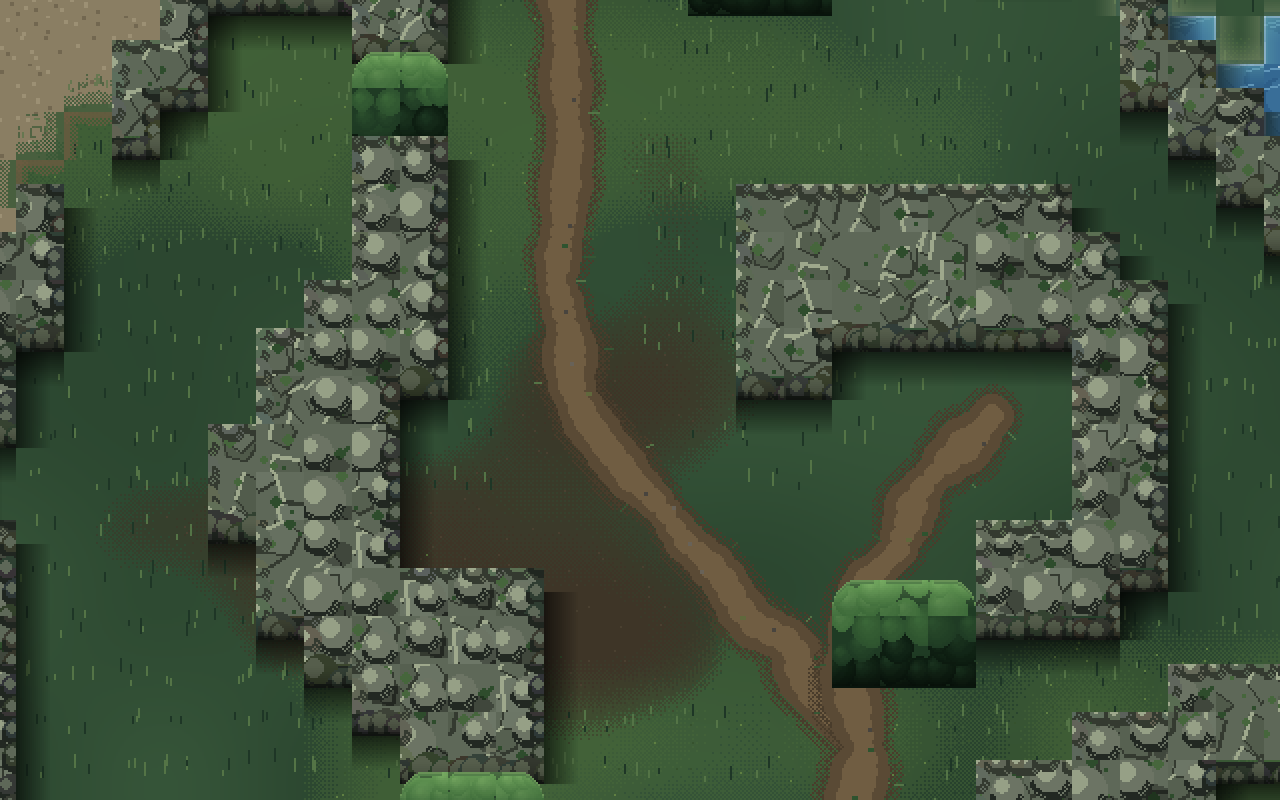
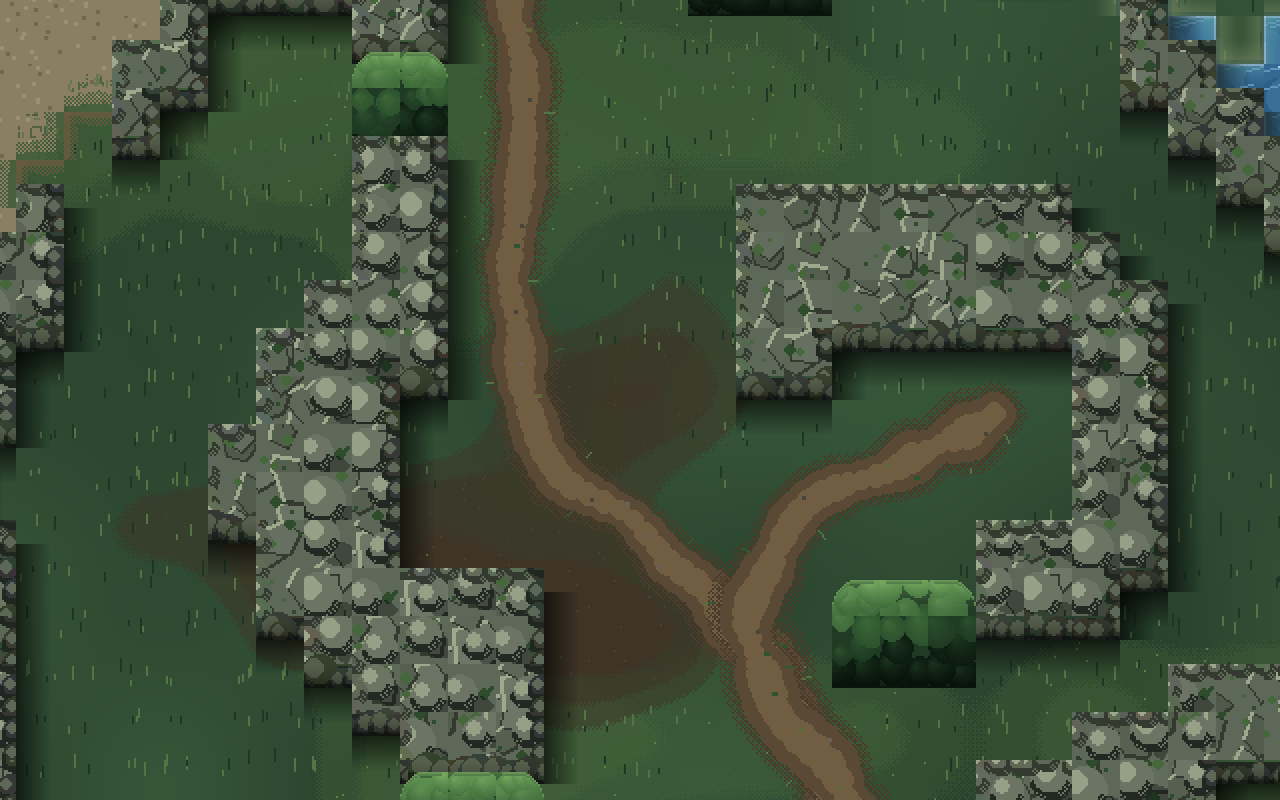
Sentieri aggirano i cespugli; retino del muschio meno visibile
Due correzioni di rifinitura:

2) I cespugli diventano OSTACOLI nel routing dei sentieri (Dijkstra): il
   sentiero li aggira invece di passarci sotto, e la penalita' di prossimita'
   ora vale anche per i cespugli (ci corre accanto). Tutti i 12 campi restano
   collegati a una lane (12/12 rotte).

3) Dithering delle chiazze di muschio meno aggressivo: il dithering ora sta in
   una fascia stretta vicino al confine tra i livelli (dlevel; gli interni
   restano a tinta piena) e i gradini del muschio hanno meno contrasto -> via il
   retino a scacchiera, resta una transizione sottile.

Screenshot aggiornati step_3/step_4, CLAUDE.md aggiornato. Test 38/38 OK.

Changed region(s): [[0.375, 0.0, 0.7812, 1.0]]

diff --git a/game/map_renderer.py b/game/map_renderer.py
@@ -318,8 +318,9 @@ class MapRenderer:
         GLO = np.array(GRASS_LO, np.float32); GHI = np.array(GRASS_HI, np.float32)
         MOSS = np.array(JUNGLE_MOSS, np.float32); MUD = np.array(JUNGLE_MUD, np.float32)
         # Forza del livello di chiazza (0=niente .. pieno): pochi gradini netti.
+        # Il muschio ha gradini PICCOLI (poco contrasto -> dithering discreto).
         MUD_STR = np.array([0.0, 0.5, 0.78, 1.0], np.float32)   # 3 livelli + 0
-        MOSS_STR = np.array([0.0, 0.42, 0.64], np.float32)      # 2 livelli + 0
+        MOSS_STR = np.array([0.0, 0.28, 0.48], np.float32)      # 2 livelli + 0
 
         # Le chiazze sono a BASSA frequenza: calcolo i campi di rumore (tinta,
         # muschio, fango) a risoluzione ridotta UNA volta, poi li interpolo
@@ -350,15 +351,26 @@ class MapRenderer:
             y0i = np.floor(fy).astype(np.int64); y1i = np.minimum(y0i + 1, hl - 1)
             wy = (fy - y0i)[:, None]
             bay = _BAYER[(np.arange(y0, y1)[:, None]) % 4, colx[None, :]]
+
+            def dlevel(valN, nmax):
+                # Livello quantizzato con DITHERING solo in una FASCIA STRETTA
+                # vicino al confine tra due livelli: così gran parte della chiazza
+                # è a tinta piena e il retino a scacchiera resta sottile.
+                lo = np.floor(valN)
+                t = valN - lo
+                tt = np.clip((t - 0.38) / 0.24, 0.0, 1.0)      # 0 pieno-basso .. 1 pieno-alto
+                lvl = lo + (bay < tt)
+                return np.clip(lvl, 0, nmax).astype(np.int64)
+
             tone = tone_x[y0i] * (1 - wy) + tone_x[y1i] * wy
             r = GLO[0] + (GHI[0] - GLO[0]) * tone
             g = GLO[1] + (GHI[1] - GLO[1]) * tone
             b = GLO[2] + (GHI[2] - GLO[2]) * tone
             moss = moss_x[y0i] * (1 - wy) + moss_x[y1i] * wy
-            ms = MOSS_STR[np.clip(np.floor(moss * 2.0 + bay), 0, 2).astype(np.int64)]
+            ms = MOSS_STR[dlevel(moss * 2.0, 2)]
             r += (MOSS[0] - r) * ms; g += (MOSS[1] - g) * ms; b += (MOSS[2] - b) * ms
             mud = mud_x[y0i] * (1 - wy) + mud_x[y1i] * wy
-            mu = MUD_STR[np.clip(np.floor(mud * 3.0 + bay), 0, 3).astype(np.int64)]
+            mu = MUD_STR[dlevel(mud * 3.0, 3)]
             r += (MUD[0] - r) * mu; g += (MUD[1] - g) * mu; b += (MUD[2] - b) * mu
             dst[:, y0:y1, 0] = np.clip(r, 0, 255).T
             dst[:, y0:y1, 1] = np.clip(g, 0, 255).T
@@ -416,17 +428,19 @@ class MapRenderer:
             return routes, path_tiles
         Wt, Ht = grid.width, grid.height
         tiles = grid.tiles
-        walls = (TILE_WALL, TILE_JUNGLE_WALL)
+        # Ostacoli che il sentiero deve AGGIRARE: muri e anche i cespugli (un
+        # sentiero non passa sotto un cespuglio).
+        obstacles = (TILE_WALL, TILE_JUNGLE_WALL, TILE_BUSH)
 
         def walk(x, y):
             return (0 <= x < Wt and 0 <= y < Ht
-                    and tiles[y][x] in (TILE_FLOOR, TILE_LANE, TILE_BUSH))
+                    and tiles[y][x] in (TILE_FLOOR, TILE_LANE))
 
         def near_wall(x, y):
             for ox in (-1, 0, 1):
                 for oy in (-1, 0, 1):
                     nx, ny = x + ox, y + oy
-                    if 0 <= nx < Wt and 0 <= ny < Ht and tiles[ny][nx] in walls:
+                    if 0 <= nx < Wt and 0 <= ny < Ht and tiles[ny][nx] in obstacles:
                         return True
             return False
 

diff --git a/CLAUDE.md b/CLAUDE.md
@@ -43,14 +43,17 @@ Passaggi completati:
   px) UNA volta e si interpolano (bilineare, numpy) a piena risoluzione per
   strisce; il verde resta continuo, muschio e fango vengono QUANTIZZATI in 2-3
   livelli coi confini sgranati a DITHERING di Bayer -> chiazze organiche che
-  attraversano i tile ma con bordi a gradini, non sfumati. Dettagli (ciuffi,
-  fiocchi, granelli) disegnati sopra, saltando i tile dei sentieri e il fango.
+  attraversano i tile ma con bordi a gradini, non sfumati. Il dithering e' in
+  una FASCIA STRETTA vicino al confine (dlevel: interno a tinta piena) e il
+  muschio ha gradini piccoli -> poco contrasto, niente retino a scacchiera.
+  Dettagli (ciuffi, fiocchi, granelli) disegnati sopra, saltando i sentieri.
   Costo una-tantum ~3-6s (solo al build; a frame solo blit). Screenshot:
   screenshots/step_3.png.
 - Sentieri pixel-art a 3 livelli (game/map_renderer.py _compute_paths/
-  _stroke_paths/_catmull): Dijkstra multi-sorgente dai tile-lane con PENALITA'
-  per i tile adiacenti ai muri -> il sentiero resta in campo aperto e, se un muro
-  e vicino, gli corre ACCANTO (mai sotto); collega sempre campo<->lane (rotte
+  _stroke_paths/_catmull): Dijkstra multi-sorgente dai tile-lane. I cespugli
+  (oltre ai muri) sono OSTACOLI: il sentiero li AGGIRA, non ci passa sotto. La
+  PENALITA' sui tile adiacenti a muri/cespugli tiene il sentiero in campo aperto
+  e, se un ostacolo e vicino, gli corre ACCANTO; collega sempre campo<->lane (rotte
   troppo corte scartate, niente vicoli ciechi). Spline Catmull-Rom deformata con
   rumore, larghezza variabile (rumore, 1-2 tile). Profilo a 3 LIVELLI netti
   (bordo scuro, terra, nucleo secco DIRT_DRY) col bordo esterno a 2 densita' di
